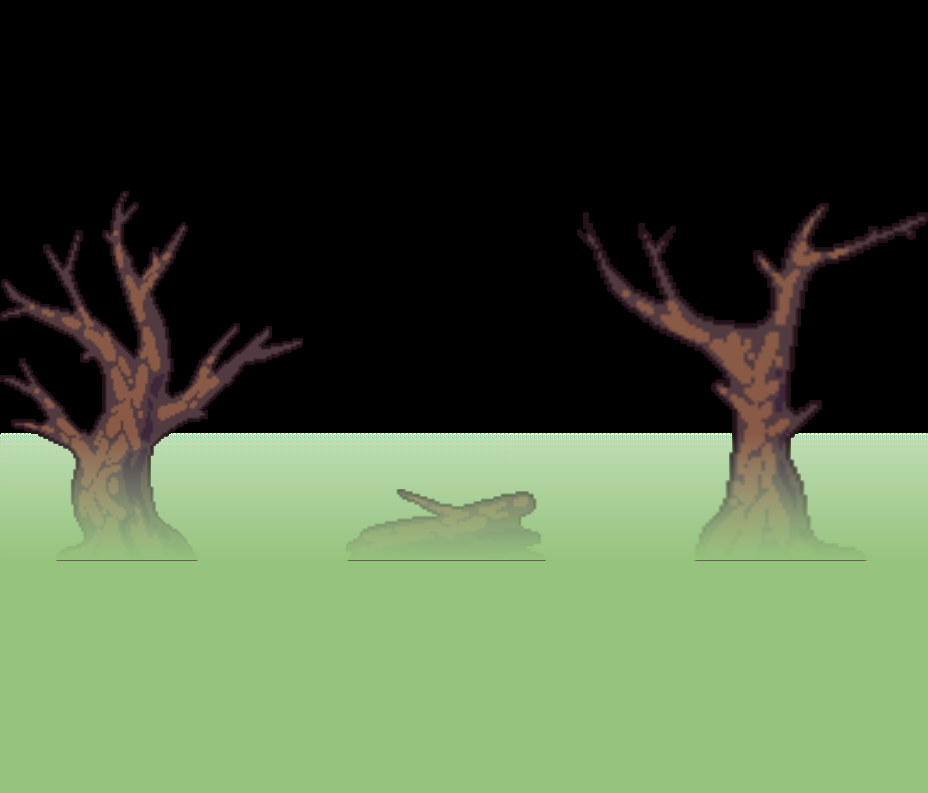
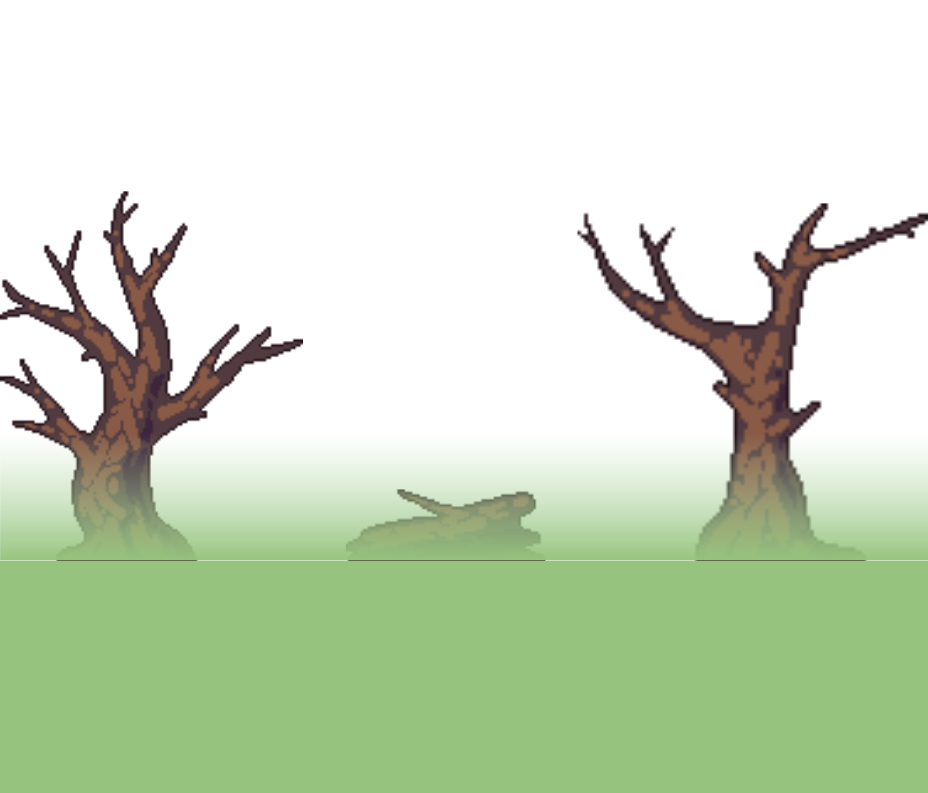
Pantano: adiciona camada_1 (dead-trees) z:4
Claude-Session: https://claude.ai/code/session_01LKQhrZqDGwX54zjjJsg1wp

diff --git a/src/components/Game/StoryGame.tsx b/src/components/Game/StoryGame.tsx
@@ -1467,6 +1467,9 @@ function ParallaxWorld({ bg, worldX, gateOpen, gateFrame, landmarkAnchor, nearby
 
         {/* camada_2 — mix-trees (em cima da 3) */}
         <div style={layer('/assets/pantano/mix-trees.png', 0.18, 3, { backgroundSize: 'auto 350px' })} />
+
+        {/* camada_1 — dead-trees (em cima da 2) */}
+        <div style={layer('/assets/pantano/dead-trees.png', 0.05, 4, { backgroundSize: 'auto 350px' })} />
       </div>
     );
   }
